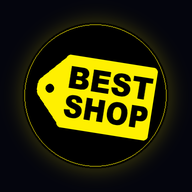
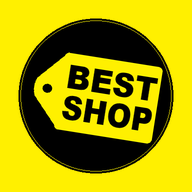
Switch to brand-yellow background theme
- New theme-yellow layer: logo yellow with dot pattern, black header/bands,
  white outlined cards; space theme kept (remove class to switch back)
- Drag trail recolored for yellow; star field off
- App icon and splash screen now brand yellow

diff --git a/styles.css b/styles.css
@@ -801,3 +801,168 @@ html[dir="rtl"] .drawer[open] { animation-name: drawer-in-rtl; }
 .section--imports { padding-bottom: 64px; }
 .section--imports + #categories { padding-top: 32px; }
 .section--deals { padding-top: 64px; }
+
+/* =====================================================================
+   BRAND YELLOW THEME — active when <html class="theme-yellow">.
+   Remove that class in index.html / products.html to return to "Deep Space".
+   ===================================================================== */
+.theme-yellow {
+  --ink: #0b0b0b;
+  --text: #0b0b0b;
+  --muted: #46421f;
+  --glass: #ffffff;
+  --glass-hi: #ffffff;
+  --glass-soft: #ffffff;
+  --stroke: #0b0b0b;
+  --stroke-hi: #0b0b0b;
+  --yellow-soft: rgba(11, 11, 11, .08);
+  --photo-bg: #f5f5ef;
+  --hard: 4px 4px 0 #0b0b0b;
+  color-scheme: light;
+  background: var(--yellow);
+}
+.theme-yellow body {
+  color: var(--ink);
+  background:
+    radial-gradient(rgba(11, 11, 11, .09) 1.3px, transparent 1.4px) 0 0 / 22px 22px,
+    var(--yellow);
+  background-attachment: scroll;
+}
+.theme-yellow .space-bg { display: none; }
+.theme-yellow h1, .theme-yellow h2, .theme-yellow h3 { color: var(--ink); text-shadow: none; }
+.theme-yellow :focus-visible { outline-color: var(--ink); }
+
+/* Buttons */
+.theme-yellow .btn { background: #fff; color: var(--ink); border: 2px solid var(--ink); backdrop-filter: none; -webkit-backdrop-filter: none; }
+.theme-yellow .btn:hover { box-shadow: var(--hard); transform: translate(-2px, -2px); }
+.theme-yellow .btn--dark { background: var(--ink); color: var(--yellow); }
+.theme-yellow .btn--wa { background: var(--wa); color: #03220f; }
+.theme-yellow .btn--yellow { background: var(--yellow); color: var(--ink); border-color: var(--yellow); }
+
+/* Top bar, header, marquee, footer: black bands */
+.theme-yellow .topbar { background: var(--ink); color: var(--yellow); border-bottom-color: rgba(255, 255, 255, .12); }
+.theme-yellow .header { background: var(--ink); border-bottom: 0; backdrop-filter: none; -webkit-backdrop-filter: none; }
+.theme-yellow .brand__name { color: var(--yellow); text-shadow: none; }
+.theme-yellow .brand__tag { color: #cfcfcf; }
+.theme-yellow .brand__logo { box-shadow: 0 0 0 2px var(--yellow); }
+.theme-yellow .nav a { color: #fff; }
+.theme-yellow .nav a:hover, .theme-yellow .nav a[aria-current="page"] { background: rgba(255, 255, 255, .12); color: var(--yellow); }
+.theme-yellow .lang-toggle, .theme-yellow .menu-toggle { background: transparent; color: #fff; border-color: rgba(255, 255, 255, .4); }
+.theme-yellow .header .btn--dark { background: var(--yellow); color: var(--ink); border-color: var(--yellow); }
+.theme-yellow .marquee { background: var(--ink); border: 0; -webkit-mask-image: none; mask-image: none; }
+.theme-yellow .marquee__track { text-shadow: none; }
+.theme-yellow .marquee__track span::after { color: var(--yellow); text-shadow: none; }
+.theme-yellow .footer { background: var(--ink); color: #cfcfcf; border-top: 0; margin-top: 0; }
+.theme-yellow .footer h3, .theme-yellow .footer .brand__name { color: var(--yellow); }
+.theme-yellow .footer .social a { color: #fff; border-color: rgba(255, 255, 255, .3); }
+@media (max-width: 900px) {
+  .theme-yellow .nav { background: var(--ink); border-bottom: 2px solid var(--yellow); }
+}
+
+/* Hero */
+.theme-yellow .status { background: #fff; border: 2px solid var(--ink); color: var(--ink); }
+.theme-yellow .import-pill { background: var(--ink); color: var(--yellow); border: 2px solid var(--ink); }
+.theme-yellow .hl {
+  background: var(--ink); color: var(--yellow); -webkit-background-clip: border-box; background-clip: border-box;
+  padding: 0 .2em .04em; border-radius: 14px; transform: rotate(-1.5deg); filter: none; animation: none;
+}
+.theme-yellow .hero__facts li > svg.lucide { background: var(--ink); color: var(--yellow); border: 0; }
+.theme-yellow .hero__facts strong { color: var(--ink); }
+.theme-yellow .hero__visual::before { background: radial-gradient(circle, rgba(255, 255, 255, .7), transparent 65%); filter: blur(24px); }
+.theme-yellow .hero__ring { border: 3px dashed rgba(11, 11, 11, .35); }
+.theme-yellow .hero__ring::before { border-color: rgba(11, 11, 11, .2); }
+.theme-yellow .hero__ring::after { background: var(--magenta); box-shadow: none; }
+.theme-yellow .hero__logo { box-shadow: 0 0 0 4px var(--ink), 10px 12px 0 rgba(11, 11, 11, .18); }
+.theme-yellow .chip { background: #fff; color: var(--ink); border: 2px solid var(--ink); box-shadow: 3px 3px 0 var(--ink); backdrop-filter: none; }
+.theme-yellow .chip svg.lucide { color: var(--ink); }
+
+/* Section heads */
+.theme-yellow .eyebrow { background: var(--ink); color: var(--yellow); border: 2px solid var(--ink); }
+.theme-yellow .eyebrow--dark { background: linear-gradient(90deg, var(--violet), var(--magenta)); color: #fff; border-color: var(--ink); }
+.theme-yellow .eyebrow--deal { background: #dc2626; color: #fff; border-color: var(--ink); }
+.theme-yellow .section__head p, .theme-yellow .imports__head p { color: var(--muted); }
+.theme-yellow .section--imports::before, .theme-yellow .section--deals::before { display: none; }
+.theme-yellow .imports__head h2 { background: none; -webkit-background-clip: border-box; background-clip: border-box; color: var(--ink); }
+.theme-yellow .drag-hint { color: #5b21b6 !important; }
+.theme-yellow .imports__stat { background: var(--ink); color: var(--yellow); box-shadow: 6px 6px 0 rgba(11, 11, 11, .25); }
+
+/* Product cards: white, bold outline */
+.theme-yellow .product { background: #fff; border: 2px solid var(--ink); backdrop-filter: none; -webkit-backdrop-filter: none; }
+.theme-yellow .product::before { display: none; }
+.theme-yellow .product:hover { box-shadow: 5px 5px 0 var(--ink); transform: translate(-3px, -3px); border-color: var(--ink); }
+.theme-yellow .product--imp { border-color: var(--ink); }
+.theme-yellow .product__name { color: var(--ink); }
+.theme-yellow .product__price strong { color: var(--ink); }
+.theme-yellow .ctl-btn { background: var(--yellow); color: var(--ink); border: 2px solid var(--ink); box-shadow: none; }
+.theme-yellow .ctl-btn:hover { box-shadow: 2px 2px 0 var(--ink); }
+.theme-yellow .ctl-btn--sub { background: linear-gradient(135deg, var(--violet), var(--magenta)); color: #fff; }
+.theme-yellow .product__ctl.is-in { background: #fff; border: 2px solid var(--ink); box-shadow: none; }
+.theme-yellow .ctl-qty { color: var(--ink); }
+.theme-yellow .badge--sale { background: #dc2626; color: #fff; }
+
+/* Departments & features */
+.theme-yellow .dept, .theme-yellow .feature { background: #fff; border: 2px solid var(--ink); backdrop-filter: none; -webkit-backdrop-filter: none; }
+.theme-yellow .dept:hover, .theme-yellow .feature:hover { box-shadow: 5px 5px 0 var(--ink); transform: translate(-3px, -3px); border-color: var(--ink); }
+.theme-yellow .dept__img { background: var(--yellow); box-shadow: 0 0 0 2px var(--ink); }
+.theme-yellow .dept__name { color: var(--ink); }
+.theme-yellow .feature__icon { background: var(--yellow); border: 2px solid var(--ink); box-shadow: none; }
+
+/* Offers: black band */
+.theme-yellow .section--dark { background: var(--ink); }
+.theme-yellow .section--dark::before { display: none; }
+.theme-yellow .section--dark h2 { color: #fff; }
+.theme-yellow .section--dark .section__head p { color: #cfcfcf; }
+.theme-yellow .section--dark .eyebrow--yellow { background: var(--yellow); color: var(--ink); border-color: var(--yellow); }
+.theme-yellow .poster { background: #161616; border-color: #333; color: #fff; }
+.theme-yellow .poster:hover { border-color: var(--yellow); box-shadow: 0 0 0 2px var(--yellow); }
+
+/* Order: black card */
+.theme-yellow .order { background: var(--ink); border: 2px solid var(--ink); box-shadow: 8px 8px 0 rgba(11, 11, 11, .25); backdrop-filter: none; }
+.theme-yellow .order__text h2 { color: #fff; }
+.theme-yellow .order__text p { color: #cfcfcf; }
+.theme-yellow .order .eyebrow { background: var(--yellow); color: var(--ink); border-color: var(--yellow); }
+.theme-yellow .order-card { background: rgba(255, 255, 255, .06); border: 1px solid rgba(255, 255, 255, .3); }
+.theme-yellow .order-card__body strong { color: #fff; }
+.theme-yellow .order-card__body span { color: #bdbdbd; }
+
+/* Visit */
+.theme-yellow .visit__card { background: #fff; border: 2px solid var(--ink); backdrop-filter: none; }
+.theme-yellow .info-row__icon { background: var(--yellow); color: var(--ink); border: 2px solid var(--ink); }
+.theme-yellow .info-row p, .theme-yellow .hours td:last-child { color: var(--ink); }
+.theme-yellow .info-row a { text-decoration-color: var(--ink); }
+.theme-yellow .info-row a:hover { color: var(--ink); }
+.theme-yellow .hours td { border-bottom-color: rgba(11, 11, 11, .15); }
+.theme-yellow .hours tr.is-today td { color: var(--ink); background: var(--yellow); }
+.theme-yellow .visit__map { border: 2px solid var(--ink); box-shadow: none; }
+.theme-yellow .visit__map iframe { filter: none; }
+.theme-yellow .about-end .lead { border-top-color: rgba(11, 11, 11, .2); }
+
+/* Floating buttons & toast */
+.theme-yellow .basket-fab { background: var(--ink); color: var(--yellow); border: 2px solid var(--ink); box-shadow: 3px 3px 0 rgba(11, 11, 11, .3); }
+.theme-yellow .basket-fab.is-over { background: #fff; color: var(--ink); box-shadow: 0 0 0 10px rgba(11, 11, 11, .15); }
+.theme-yellow .basket-fab.is-over .basket-fab__count { background: var(--ink); color: var(--yellow); }
+.theme-yellow .toast { background: var(--ink); color: var(--yellow); box-shadow: none; }
+
+/* Products page */
+.theme-yellow .shop-hero { background: none; border-bottom: 2px solid var(--ink); }
+.theme-yellow .shop-hero p { color: var(--muted); }
+.theme-yellow .search { background: #fff; border: 2px solid var(--ink); color: var(--ink); backdrop-filter: none; }
+.theme-yellow .search input { color: var(--ink); }
+.theme-yellow .search input::placeholder { color: #6b6743; }
+.theme-yellow .search:focus-within { box-shadow: var(--hard); border-color: var(--ink); }
+.theme-yellow .toggle-imp, .theme-yellow .sort select { background: #fff; color: var(--ink); border: 2px solid var(--ink); }
+.theme-yellow .toggle-deal svg.lucide { color: #dc2626; }
+.theme-yellow .toggle-imp.is-active { color: #fff; border-color: var(--ink); }
+.theme-yellow .toggle-deal.is-active svg.lucide { color: #fff; }
+.theme-yellow .chip-btn { color: var(--ink); }
+.theme-yellow .chip-btn:hover { background: rgba(11, 11, 11, .07); color: var(--ink); }
+.theme-yellow .chip-btn.is-active { background: var(--ink); color: var(--yellow); border-color: var(--ink); }
+.theme-yellow .sub-btn { background: #fff; color: var(--ink); border: 2px solid var(--ink); }
+.theme-yellow .sub-btn.is-active { background: var(--ink); color: var(--yellow); }
+.theme-yellow .empty, .theme-yellow .note { color: var(--muted); }
+@media (max-width: 900px) {
+  .theme-yellow .chip-btn { background: #fff; border-color: var(--ink); }
+  .theme-yellow .chip-btn.is-active { background: var(--ink); }
+}
+.theme-yellow .toggle-imp.is-active { background: linear-gradient(90deg, var(--violet), var(--magenta)); }
+.theme-yellow .toggle-deal.is-active { background: linear-gradient(90deg, #dc2626, var(--magenta)); }

diff --git a/space.js b/space.js
@@ -9,7 +9,9 @@
   const reduced = window.matchMedia("(prefers-reduced-motion: reduce)").matches;
   const finePointer = window.matchMedia("(pointer: fine)").matches;
   const DPR = Math.min(window.devicePixelRatio || 1, 1.5);
-  const HUES = [270, 320, 190, 55];   // violet, magenta, cyan, brand yellow
+  // Brand-yellow theme: no star field, and a darker trail that shows on yellow
+  const light = document.documentElement.classList.contains("theme-yellow");
+  const HUES = light ? [270, 320, 205, 0] : [270, 320, 190, 55];   // violet, magenta, cyan/blue, yellow/red
 
   const bg = document.createElement("canvas");
   const fx = document.createElement("canvas");
@@ -52,6 +54,7 @@
   let shooting = null;
   function drawStars(time) {
     bctx.clearRect(0, 0, W, H);
+    if (light) return;
     pointer.x += (pointer.tx - pointer.x) * 0.05;
     pointer.y += (pointer.ty - pointer.y) * 0.05;
     const scroll = window.scrollY;
@@ -113,7 +116,7 @@
   function drawParticles() {
     fctx.clearRect(0, 0, W, H);
     if (!particles.length) return;
-    fctx.globalCompositeOperation = "lighter";
+    fctx.globalCompositeOperation = light ? "source-over" : "lighter";
     for (let i = particles.length - 1; i >= 0; i--) {
       const p = particles[i];
       p.x += p.vx; p.y += p.vy; p.vx *= 0.97; p.vy *= 0.97; p.vy -= 0.01;
@@ -121,8 +124,8 @@
       if (p.life <= 0) { particles.splice(i, 1); continue; }
       const r = p.size * (0.4 + p.life);
       const g = fctx.createRadialGradient(p.x, p.y, 0, p.x, p.y, r * 3);
-      g.addColorStop(0, `hsla(${p.hue}, 100%, 80%, ${p.life})`);
-      g.addColorStop(0.35, `hsla(${p.hue}, 100%, 60%, ${p.life * 0.5})`);
+      g.addColorStop(0, `hsla(${p.hue}, 100%, ${light ? 55 : 80}%, ${p.life})`);
+      g.addColorStop(0.35, `hsla(${p.hue}, 100%, ${light ? 45 : 60}%, ${p.life * 0.5})`);
       g.addColorStop(1, `hsla(${p.hue}, 100%, 50%, 0)`);
       fctx.fillStyle = g;
       fctx.beginPath(); fctx.arc(p.x, p.y, r * 3, 0, Math.PI * 2); fctx.fill();

diff --git a/index.html b/index.html
@@ -1,11 +1,11 @@
 <!doctype html>
-<html lang="en" dir="ltr">
+<html lang="en" dir="ltr" class="theme-yellow">
 <head>
   <meta charset="utf-8">
   <meta name="viewport" content="width=device-width, initial-scale=1, viewport-fit=cover">
   <title>Best Shop — Imported Favorites from the USA & Europe | Al-Gardens, Amman</title>
   <meta name="description" content="Best Shop supermarket in Al-Gardens, Amman: hard-to-find imported products from the USA and Europe, fresh meat and chicken, cheeses and daily essentials at the best price. Open until 2 AM. Delivery available.">
-  <meta name="theme-color" content="#04050d">
+  <meta name="theme-color" content="#0b0b0b">
   <meta name="robots" content="noindex, nofollow">
   <meta property="og:title" content="Best Shop — Imported favorites from the USA & Europe">
   <meta property="og:description" content="Al-Gardens, Amman. 4,000+ products, imported specialties, open until 2 AM, delivery available.">

diff --git a/products.html b/products.html
@@ -1,11 +1,11 @@
 <!doctype html>
-<html lang="en" dir="ltr">
+<html lang="en" dir="ltr" class="theme-yellow">
 <head>
   <meta charset="utf-8">
   <meta name="viewport" content="width=device-width, initial-scale=1, viewport-fit=cover">
   <title>All Products — Best Shop, Al-Gardens, Amman</title>
   <meta name="description" content="Browse 4,000+ products at Best Shop supermarket, including imported favorites from the USA and Europe. Order on WhatsApp or Talabat.">
-  <meta name="theme-color" content="#04050d">
+  <meta name="theme-color" content="#0b0b0b">
   <meta name="robots" content="noindex, nofollow">
   <link rel="icon" href="img/favicon.png" type="image/png">
   <link rel="apple-touch-icon" href="img/apple-touch-icon.png">

diff --git a/sw.js b/sw.js
@@ -3,7 +3,7 @@
    - App files (CSS, JS, logos, posters): network first too, so updates show at once
    - Product photos from Talabat: cached as customers see them (up to 400)
    Bump VERSION whenever the site changes so phones pick up the new files. */
-const VERSION = "bs-v5";
+const VERSION = "bs-v6";
 const SHELL = `${VERSION}-shell`;
 const PHOTOS = `${VERSION}-photos`;
 const PHOTO_LIMIT = 400;

diff --git a/tools/make_logo.py b/tools/make_logo.py
@@ -46,12 +46,8 @@ if __name__ == "__main__":
 
 
 def app_icon(size, logo_ratio):
-    """Square app icon: the round logo centered on the deep-space background."""
-    bg = Image.new("RGBA", (size, size), (4, 5, 13, 255))
-    glow = Image.new("RGBA", (size, size), (0, 0, 0, 0))
-    ImageDraw.Draw(glow).ellipse([size * .08, size * .08, size * .92, size * .92], fill=(255, 240, 0, 60))
-    from PIL import ImageFilter
-    bg.alpha_composite(glow.filter(ImageFilter.GaussianBlur(size * .06)))
+    """Square app icon: the round logo centered on brand yellow."""
+    bg = Image.new("RGBA", (size, size), YELLOW)
     logo = draw(int(size * logo_ratio), background=False)
     off = (size - logo.width) // 2
     bg.alpha_composite(logo, (off, off))
@@ -59,8 +55,8 @@ def app_icon(size, logo_ratio):
 
 
 def make_app_icons():
-    app_icon(192, .86).save("img/icon-192.png", optimize=True)
-    app_icon(512, .86).save("img/icon-512.png", optimize=True)
+    app_icon(192, .92).save("img/icon-192.png", optimize=True)
+    app_icon(512, .92).save("img/icon-512.png", optimize=True)
     # Maskable: keep the logo inside the 80% safe zone Android may crop to a circle/squircle
-    app_icon(512, .66).save("img/icon-maskable-512.png", optimize=True)
-    app_icon(180, .86).save("img/apple-touch-icon.png", optimize=True)
+    app_icon(512, .72).save("img/icon-maskable-512.png", optimize=True)
+    app_icon(180, .92).save("img/apple-touch-icon.png", optimize=True)
